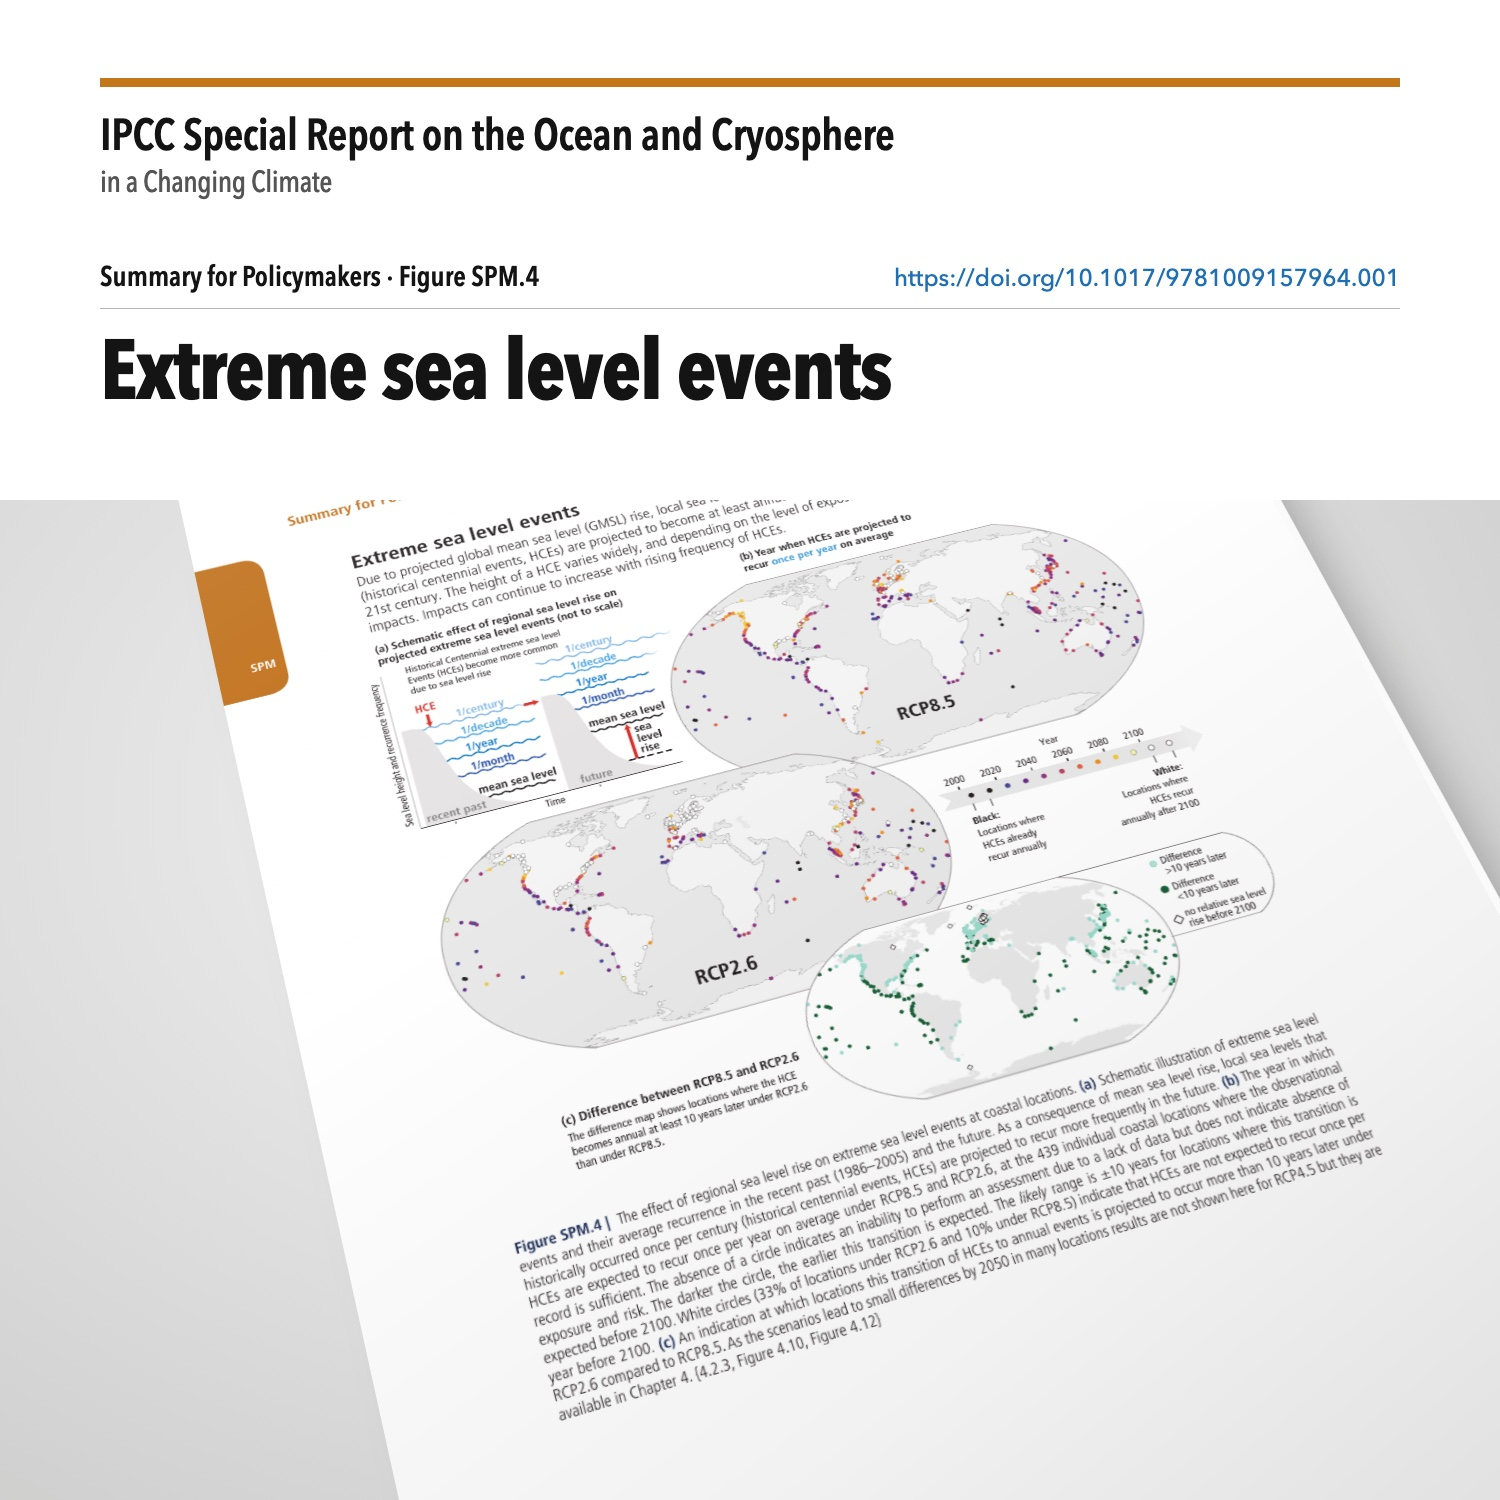
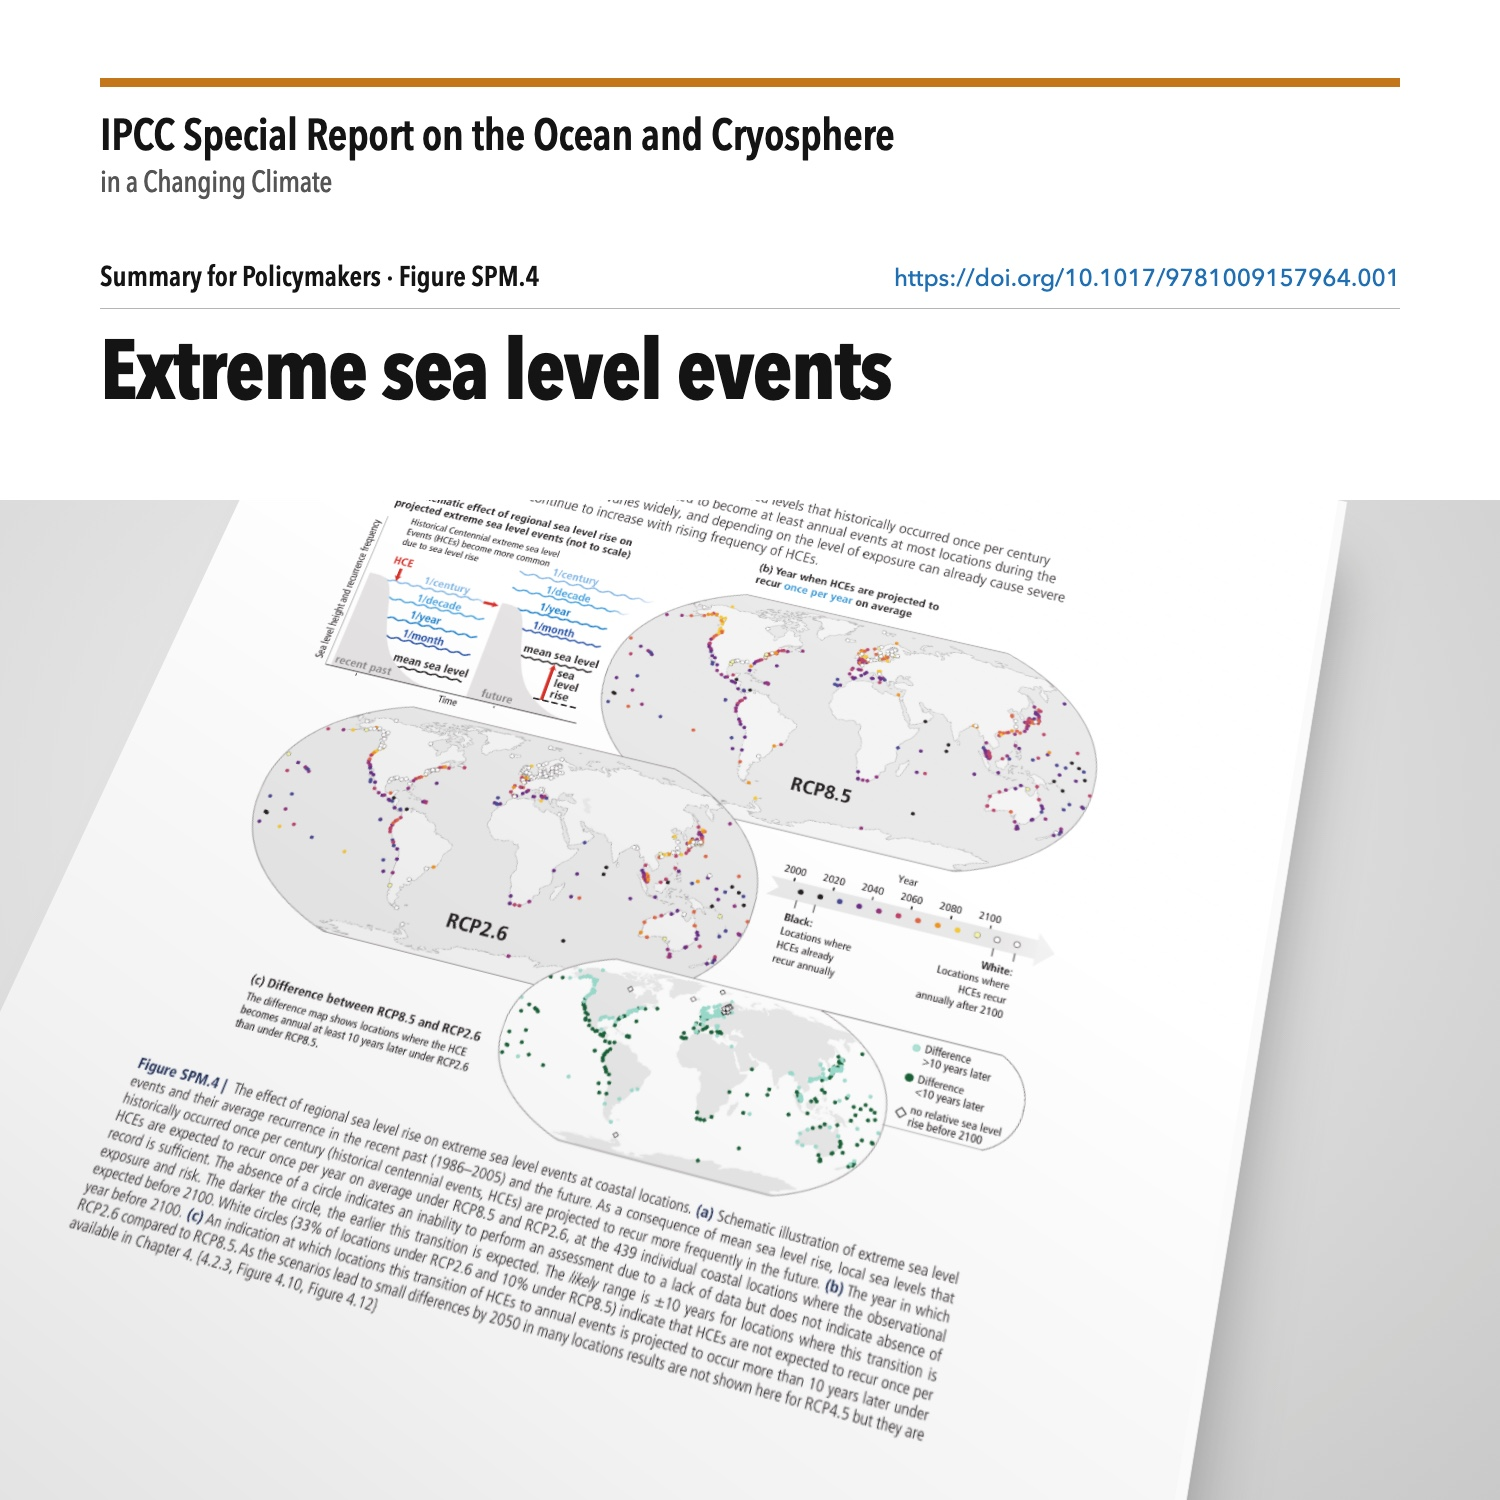
Report buttons for the IPCC pieces; SROCC mockup at a new angle
Both IPCC pieces link to their Summary for Policymakers through the DOI,
with a 'Read the full report' button in the lightbox. The SROCC mockup
now tilts the other way from the WGII one.

Changed region(s): [[0.0307, 0.3067, 1.0, 1.0]]

diff --git a/js/site-data.js b/js/site-data.js
@@ -233,7 +233,7 @@ window.SITE = {
 
   // ---------- Portfolio ----------
   // Each item: src (or video + poster), thumb (800 px copy used in the grid), width, height, title, client, alt,
-  // story { url, title, date, outlet } when it ran in an article; paper { url, year } for a journal paper (the DOI link); year alone when there is no link.
+  // story { url, title, date, outlet } when it ran in an article; paper { url, year } for a journal paper and report { url, year } for a report (the DOI links); year alone when there is no link.
   portfolio: [
     {
       id: "maps",
@@ -444,7 +444,7 @@ window.SITE = {
           width: 1500, height: 1500,
           title: "Global and regional risks for increasing levels of global warming",
           client: "IPCC AR6 WGII",
-          year: "2022",
+          report: { url: "https://doi.org/10.1017/9781009325844.001", year: "2022" },
           alt: "Printed page from the Summary for Policymakers of the IPCC Working Group II report, Climate Change 2022, showing the figure 'Global and regional risks for increasing levels of global warming': projected warming to 2100 under five emissions scenarios beside burning-ember bars of rising risk for the Reasons for Concern, ecosystems and health."
         },
         {
@@ -453,7 +453,7 @@ window.SITE = {
           width: 1500, height: 1500,
           title: "Extreme sea level events",
           client: "IPCC SROCC",
-          year: "2019",
+          report: { url: "https://doi.org/10.1017/9781009157964.001", year: "2019" },
           alt: "Printed page from the Summary for Policymakers of the IPCC Special Report on the Ocean and Cryosphere, showing Figure SPM.4, 'Extreme sea level events': a schematic of how sea level rise turns once-a-century extreme sea levels into yearly events, and world maps of when this happens at coastal locations under RCP8.5 and RCP2.6."
         }
       ]

diff --git a/js/main.js b/js/main.js
@@ -56,7 +56,7 @@
 
   const metaLine = (item) => {
     const bits = [item.client];
-    const date = (item.story && item.story.date) || (item.paper && item.paper.year) || item.year;
+    const date = (item.story && item.story.date) || (item.paper && item.paper.year) || (item.report && item.report.year) || item.year;
     if (date) bits.push(String(date).slice(0, 4));
     return bits.filter(Boolean).join(" · ");
   };
@@ -244,11 +244,12 @@
       parts.meta.textContent = metaLine(item);
       parts.hint.textContent = item.compare ? "Drag across the maps to compare" : "";
       if (item.compare) initCompare(wrap.firstElementChild);
-      parts.story.innerHTML = item.story && item.story.url
-        ? html`<a class="button arrow arrow--ext" href="${item.story.url}" target="_blank" rel="noopener">Read the full story</a>`
-        : item.paper && item.paper.url
-          ? html`<a class="button arrow arrow--ext" href="${item.paper.url}" target="_blank" rel="noopener">Read the full paper</a>`
-          : "";
+      // one outbound button: the article a piece ran in, or the paper or report it belongs to
+      const link = [["story", "Read the full story"], ["paper", "Read the full paper"], ["report", "Read the full report"]]
+        .find(([key]) => item[key] && item[key].url);
+      parts.story.innerHTML = link
+        ? html`<a class="button arrow arrow--ext" href="${item[link[0]].url}" target="_blank" rel="noopener">${link[1]}</a>`
+        : "";
       if (window.gsap && !reduceMotion) {
         window.gsap.fromTo(wrap.firstElementChild, { opacity: 0, scale: 0.96 }, { opacity: 1, scale: 1, duration: 0.45, ease: "power3.out" });
       }

diff --git a/README.md b/README.md
@@ -28,7 +28,7 @@
 Everything editorial lives in `js/site-data.js`.
 
 - **Add a piece**: put the full-size file in `images/portfolio/<category>/`, make an 800 px copy in `images/thumbs/<category>/` (same name, `.jpg`), and add an entry to that category's `items`:
-  `{ src, thumb, width, height, title, client, alt, story: { url, title, date, outlet } }`. Leave `story` out when there is no article. For a journal paper use `paper: { url, year }` instead, with the DOI link as `url`; the lightbox then shows "Read the full paper". The wall lays the pieces out in rows of three (two on phones), left to right, in the order of the file.
+  `{ src, thumb, width, height, title, client, alt, story: { url, title, date, outlet } }`. Leave `story` out when there is no article. For a journal paper use `paper: { url, year }` instead, and for a report `report: { url, year }`, with the DOI link as `url`; the lightbox then shows "Read the full paper" or "Read the full report". The wall lays the pieces out in rows of three (two on phones), left to right, in the order of the file.
 - **Add a video or animation**: use `video` and `poster` instead of `src`; it plays muted on a loop. Turn GIFs into MP4 first (a tenth of the size), e.g. `ffmpeg -i in.gif -movflags +faststart -pix_fmt yuv420p -vf "scale=800:-2" -c:v libx264 -crf 26 out.mp4`, and give the wall that 800 px copy as `videoThumb`. Videos and their stills load only when scrolled near.
 - **Add a 3D map**: add `{ video, poster, width, height, title, client, url, alt }` to `stories.interactive.items`; it shows on the stories page and on the home page after the scrollies, not on the wall. Videos load only when scrolled near.
 - **Add a before/after slider**: use `compare: [left, right]` instead of `src`, each side `{ src, thumb, alt }`, both images the same size. The wall shows them split down the middle; in the lightbox the handle can be dragged.
